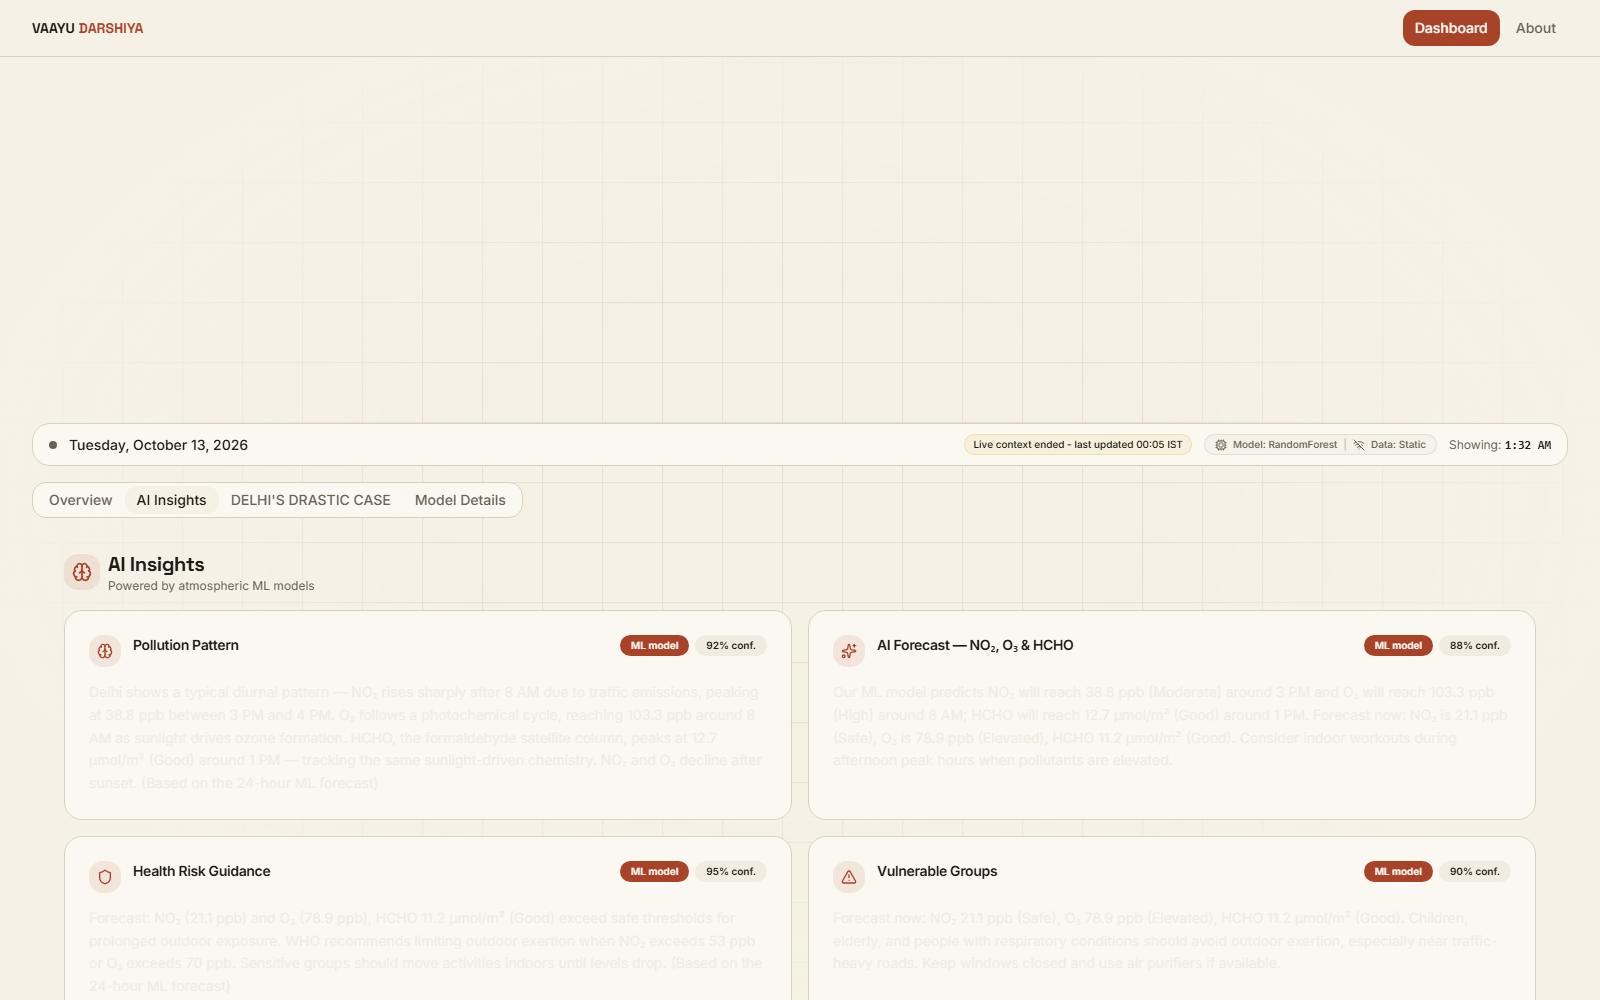
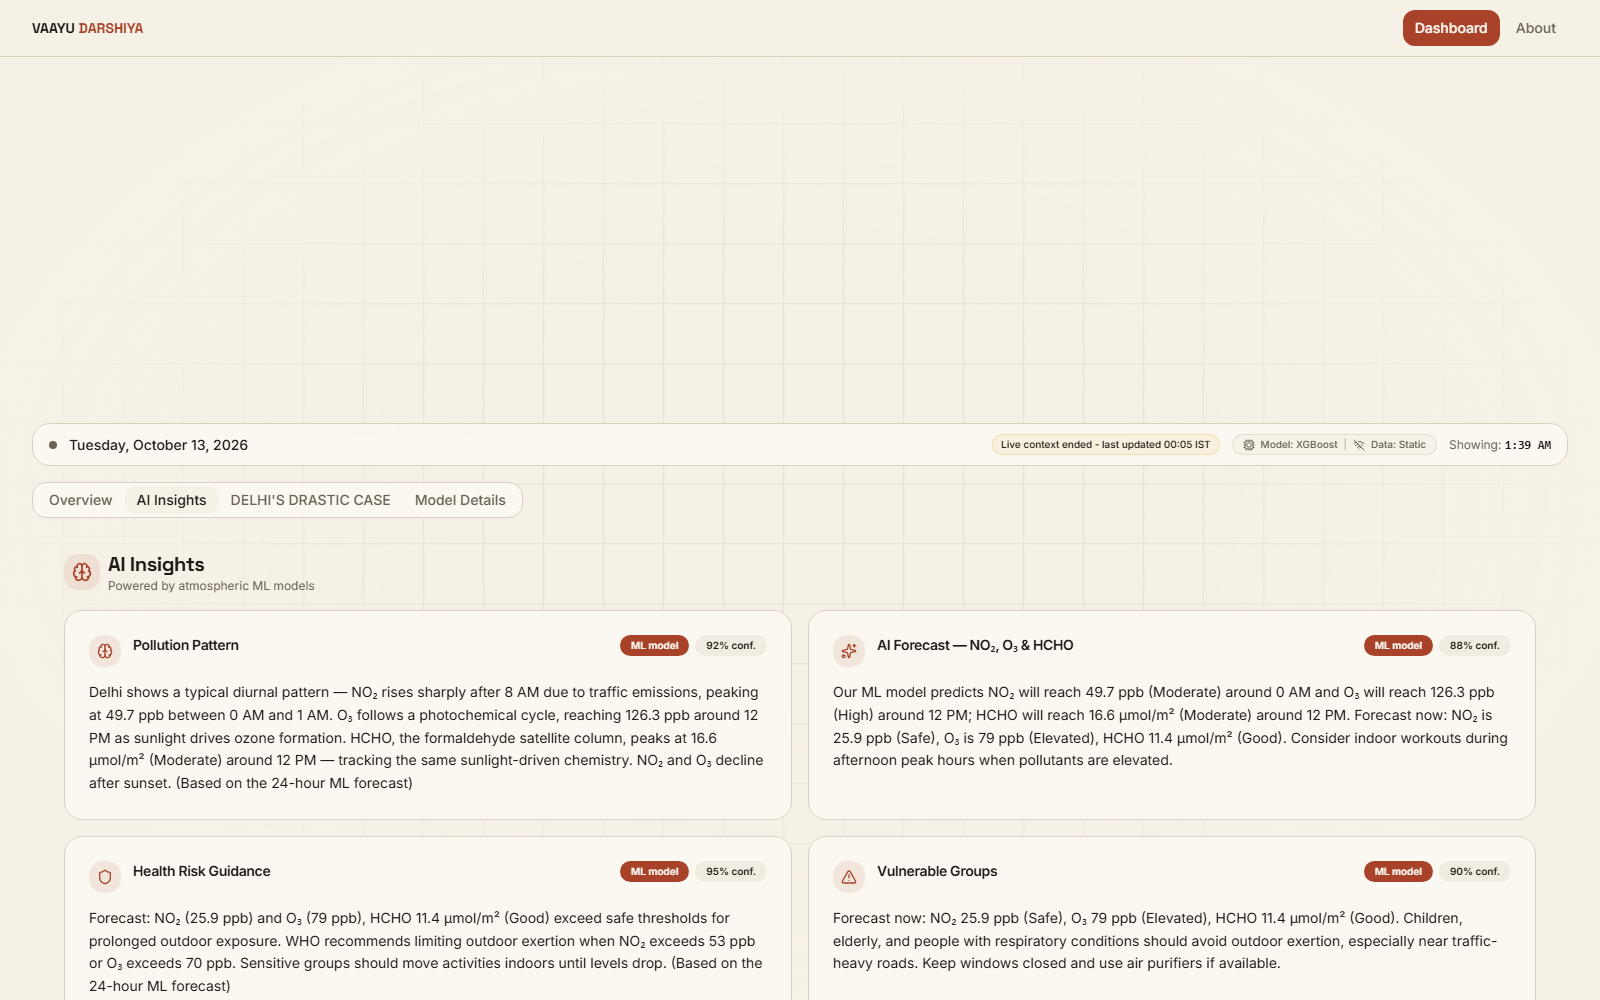
commit

diff --git a/FRONTEND/src/components/MobiusHero.tsx b/FRONTEND/src/components/MobiusHero.tsx
@@ -4,13 +4,13 @@
 import { useRef, useMemo } from "react";
 import { Canvas, useFrame } from "@react-three/fiber";
 import * as THREE from "three";
-import { accent, token, toRgb } from "@/lib/palette";
+import { token, toRgb } from "@/lib/palette";
 
 // Warm token colours for the 3D scene (read from styles.css at runtime).
 const rgb01 = (name: string): [number, number, number] =>
   toRgb(token(name)).map((c) => c / 255) as [number, number, number];
-const STRIP_FROM = rgb01("accent"); // --accent #A8432A
-const STRIP_TO = rgb01("hcho-2"); // --hcho-2 #E8C98A
+const STRIP_FROM = rgb01("sev-moderate"); // --sev-moderate #E2B33C (soft gold)
+const STRIP_TO = rgb01("hcho-1"); // --hcho-1 #F3E9D2 (pale cream)
 
 // --- Parametric position ---
 function mobiusPoint(u: number, v: number, R = 2.8, w = 0.75): THREE.Vector3 {
@@ -39,7 +39,7 @@ function buildMobiusGeometry(): THREE.BufferGeometry {
       positions.push(p.x, p.y, p.z);
       uvs.push(u, j / segV);
 
-      // Vertex colour gradient — accent → warm sand along the strip, with a
+      // Vertex colour gradient — soft gold → pale cream along the strip, with a
       // cream highlight at the edge (all token colours).
       const t = u;
       const edge = 1 - Math.abs(v) * 2.2;
@@ -115,13 +115,13 @@ function MobiusStrip() {
       <mesh geometry={mobiusGeometry}>
         <meshPhysicalMaterial
           vertexColors
-          metalness={0.92}
-          roughness={0.14}
+          metalness={0.45}
+          roughness={0.32}
           clearcoat={1}
           clearcoatRoughness={0.07}
           side={THREE.DoubleSide}
-          emissive={accent()}
-          emissiveIntensity={0.08}
+          emissive={token("hcho-2")}
+          emissiveIntensity={0.12}
           envMapIntensity={1.8}
           sheen={0.6}
           sheenColor={token("hcho-2")}
@@ -132,7 +132,7 @@ function MobiusStrip() {
       {/* Thin wireframe accent */}
       <mesh geometry={mobiusGeometry}>
         <meshBasicMaterial
-          color={accent()}
+          color={token("sev-moderate")}
           wireframe
           transparent
           opacity={0.07}
@@ -168,8 +168,8 @@ function GoldenBall() {
         <sphereGeometry args={[0.24, 32, 32]} />
         <meshPhysicalMaterial
           color={token("sev-moderate")}
-          emissive={token("sev-poor")}
-          emissiveIntensity={1.8}
+          emissive={token("hcho-3")}
+          emissiveIntensity={1.4}
           metalness={1}
           roughness={0.06}
           clearcoat={1}
@@ -198,8 +198,8 @@ function TrailBall() {
       <sphereGeometry args={[0.14, 24, 24]} />
       <meshPhysicalMaterial
         color={token("hcho-3")}
-        emissive={accent()}
-        emissiveIntensity={1.4}
+        emissive={token("sev-moderate")}
+        emissiveIntensity={1.2}
         metalness={0.95}
         roughness={0.12}
         clearcoat={1}
@@ -291,7 +291,7 @@ function Scene() {
         color={token("hcho-2")}
         distance={25}
       />
-      <pointLight position={[0, 0, 0]} intensity={0.5} color={accent()} distance={8} decay={2} />
+      <pointLight position={[0, 0, 0]} intensity={0.5} color={token("hcho-2")} distance={8} decay={2} />
       <fog attach="fog" args={[token("paper"), 18, 42]} />
       <MobiusStrip />
     </>

diff --git a/FRONTEND/src/components/dashboard/CaseStudy.tsx b/FRONTEND/src/components/dashboard/CaseStudy.tsx
@@ -241,7 +241,7 @@ export function CaseStudy({ stations }: { stations?: StationData[] }) {
         <Card className="glass mb-6 border-l-4 border-l-sev-good">
           <CardContent className="p-4">
             <p className="text-xs text-muted-foreground">{report.label}</p>
-            <p className="mt-1 text-sm leading-relaxed text-secondary">{report.value}</p>
+            <p className="mt-1 text-sm leading-relaxed text-foreground">{report.value}</p>
             <p className="mt-2 text-[10px] text-muted-foreground">
               {report.source} · as of {formatDate(report.as_of ?? report.fetched_at) ?? "unknown date"}
             </p>
@@ -252,7 +252,7 @@ export function CaseStudy({ stations }: { stations?: StationData[] }) {
       {/* Narratives */}
       <Card className="glass mb-6 border-l-4 border-l-sev-very-poor">
         <CardContent className="p-5">
-          <p className="text-sm leading-relaxed text-secondary">
+          <p className="text-sm leading-relaxed text-foreground">
             <span className="font-semibold text-foreground">Delhi consistently ranks among the world's most polluted cities.</span>{" "}
             With an annual average PM2.5 concentration of <span className="text-sev-very-poor font-bold">99.7 µg/m³</span> — nearly
             20 times the WHO guideline of 5 µg/m³ — the city faces a severe public health crisis. Winter months
@@ -260,7 +260,7 @@ export function CaseStudy({ stations }: { stations?: StationData[] }) {
             combination of vehicular emissions, industrial discharge, construction dust, crop residue burning in
             neighbouring states, and unfavourable meteorological conditions creates a toxic blanket over the NCR.
           </p>
-          <p className="mt-3 text-sm leading-relaxed text-secondary">
+          <p className="mt-3 text-sm leading-relaxed text-foreground">
             This XGBoost model monitors <span className="font-semibold text-foreground">7 critical zones</span> across
             Delhi, tracking NO₂ and O₃ concentrations at 1-hour resolution with 24-hour forecasts. The model's
             test R² of <span className="font-semibold text-foreground">0.796 (NO₂)</span> and{" "}

diff --git a/FRONTEND/src/components/dashboard/AIInsights.tsx b/FRONTEND/src/components/dashboard/AIInsights.tsx
@@ -219,7 +219,7 @@ export function AIInsights({ city, forecast }: AIInsightsProps) {
               </div>
             </CardHeader>
             <CardContent>
-              <p className="text-sm leading-relaxed text-secondary">{insight.description}</p>
+              <p className="text-sm leading-relaxed text-foreground">{insight.description}</p>
             </CardContent>
           </Card>
         ))}
@@ -297,7 +297,7 @@ export function AIInsights({ city, forecast }: AIInsightsProps) {
                   <p className="mb-1 text-[10px] font-medium uppercase tracking-wide text-muted-foreground">
                     Excerpt · {research.excerpt.site_name || research.excerpt.title || "source"}
                   </p>
-                  <p className="text-sm leading-relaxed text-secondary">
+                  <p className="text-sm leading-relaxed text-foreground">
                     “{research.excerpt.text}”
                   </p>
                   <a

diff --git a/scripts/verify-secondary.js b/scripts/verify-secondary.js
@@ -1,0 +1,21 @@
+/** One-off: confirm remaining `text-secondary` elements now render ink-muted. */
+const { chromium } = require("playwright");
+const sleep = (ms) => new Promise((r) => setTimeout(r, ms));
+(async () => {
+  const b = await chromium.launch();
+  const p = await (await b.newContext({ viewport: { width: 1600, height: 1000 } })).newPage();
+  await p.goto("http://localhost:8082/", { waitUntil: "domcontentloaded", timeout: 90000 });
+  await sleep(9000);
+  const c = await p.$$eval('[class*="text-secondary"]', (els) =>
+    els
+      .filter((el) => String(el.className).split(/\s+/).includes("text-secondary"))
+      .slice(0, 6)
+      .map((el) => ({
+        cls: String(el.className).slice(0, 60),
+        color: getComputedStyle(el).color,
+        text: (el.textContent || "").slice(0, 40),
+      }))
+  );
+  console.log(JSON.stringify(c, null, 1));
+  await b.close();
+})();

diff --git a/scripts/check-text.js b/scripts/check-text.js
@@ -32,7 +32,7 @@ async function main() {
   const aiTab = page.getByRole("tab", { name: "AI Insights" }).first();
   await aiTab.click();
   await sleep(3500);
-  await probe(page, "AI Insights paragraphs", '[class*="text-secondary"]');
+  await probe(page, "AI Insights paragraphs", '[class*="leading-relaxed"]');
   await probe(page, "AI Insights muted (control)", '[class*="text-muted-foreground"]');
   const aiSection = page.getByText("AI Insights", { exact: false }).first();
   await aiSection.scrollIntoViewIfNeeded();
@@ -56,4 +56,4 @@ async function main() {
   console.log("\nshots ->", OUT);
 }
 
-mai
+main().catch((e) => { console.error("FAIL", e); process.exit(1); });

diff --git a/FRONTEND/src/styles.css b/FRONTEND/src/styles.css
@@ -281,6 +281,12 @@
 }
 
 /* --- Card description text utility --- */
-@utility text-secondary {
+/* Deliberately a plain, UNLAYERED rule — not `@utility`. Tailwind also
+   generates `.text-secondary { color: var(--color-secondary) }` from the
+   theme token (a near-white tint used for `bg-secondary`), and two layered
+   utilities with equal specificity resolve by source order, which made body
+   text render invisible. Unlayered rules always beat layered utilities, so
+   `text-secondary` is guaranteed to be ink-muted card body copy. */
+.text-secondary {
   color: var(--text-secondary);
 }
